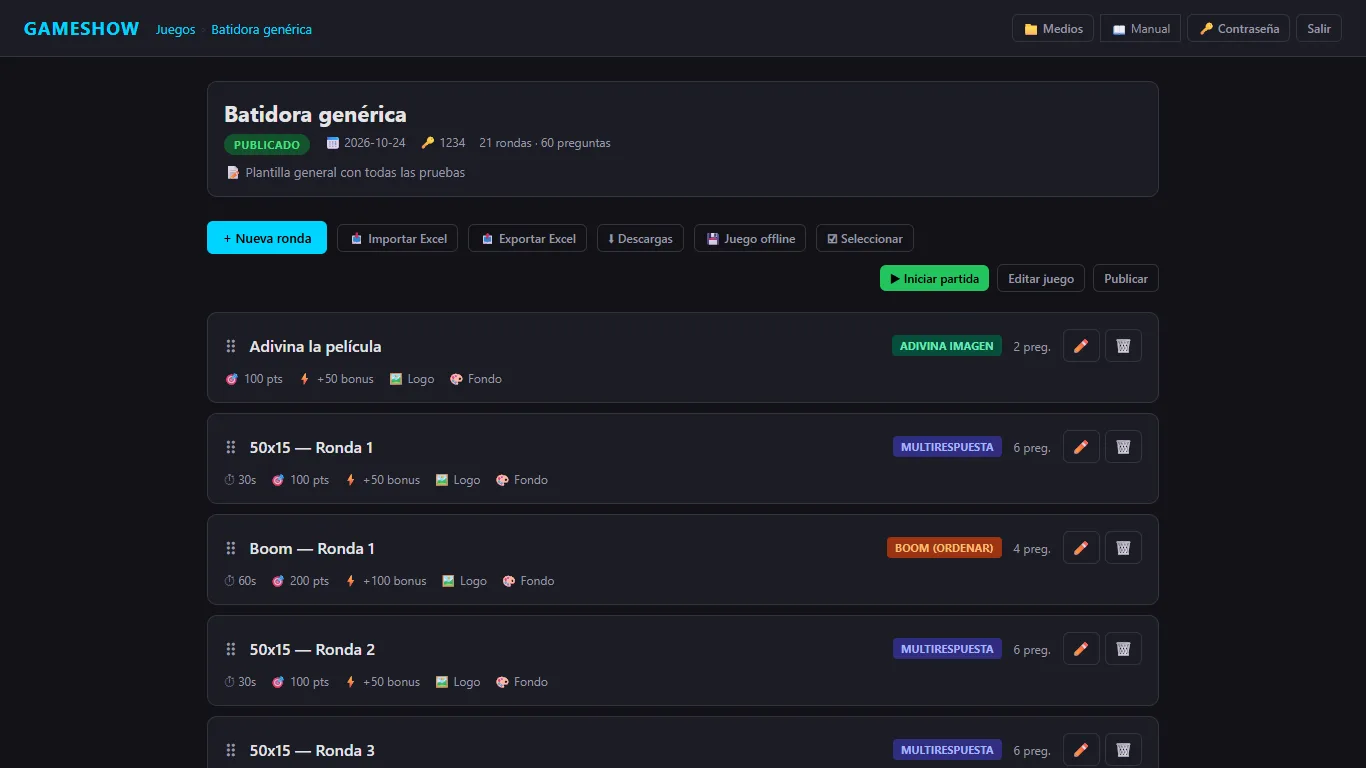
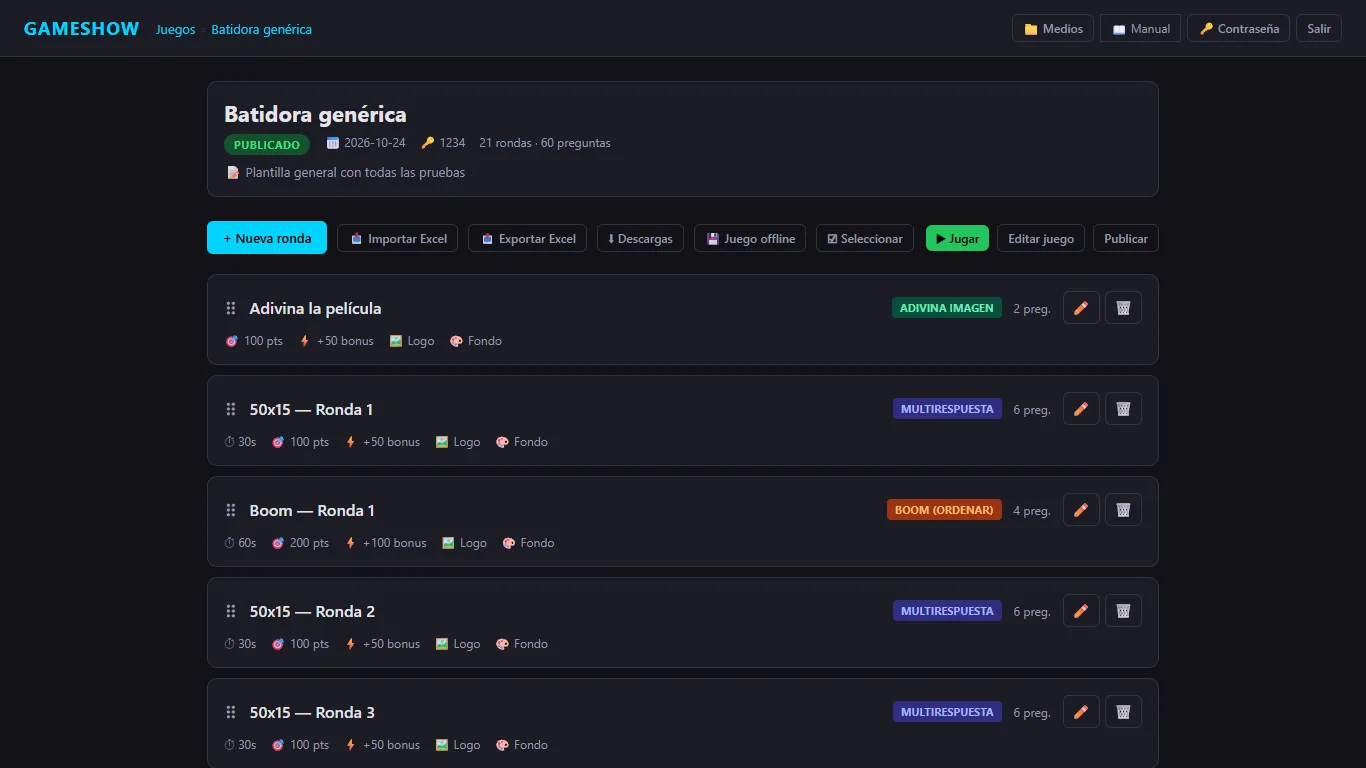
Botón Jugar: sin preguntas y único acceso al coordinador desde la lista
Con la pestaña nueva ya delante, el navegador anulaba los confirm() del
backoffice y la pestaña se cerraba sola: con partida en marcha el botón no
hacía nada. Ahora crea la partida o continúa la que hay y abre el
coordinador; la partida nueva se hace con «Borrar todo» del coordinador.
Se quita «Director» de la lista y «Iniciar partida» pasa a llamarse «Jugar».
Manual y capturas al día.

diff --git a/public/admin/index.html b/public/admin/index.html
@@ -236,7 +236,7 @@ label { font-size: 12px; font-weight: 600; color: var(--text2); text-transform: 
             <button class="btn-ghost btn-sm" id="btnToggleSelectRounds" onclick="toggleRoundSelectMode()" style="display:none">☑ Seleccionar</button>
             <button class="btn-ghost btn-sm" id="btnDeleteSelectedRounds" onclick="deleteSelectedRounds()" style="display:none; color:var(--danger, #e53935)">🗑 Eliminar seleccionadas</button>
             <div class="toolbar-right">
-                <button class="btn-success btn-sm" id="btnStartSession" onclick="startSession(currentGame.id)" style="display:none">▶ Iniciar partida</button>
+                <button class="btn-success btn-sm" id="btnStartSession" onclick="startSession(currentGame.id)" style="display:none" title="Abrir el coordinador (crea la partida o continúa la que está en marcha)">▶ Jugar</button>
                 <button class="btn-ghost btn-sm" onclick="openGameModal(currentGame)">Editar juego</button>
                 <button class="btn-ghost btn-sm" onclick="publishGame()">Publicar</button>
             </div>
@@ -848,7 +848,7 @@ function renderGames() {
                 <span class="card-title" onclick="loadGame('${g.id}')">${esc(g.name)}</span>
                 ${statusBadge(g.status)}
                 <div class="card-actions">
-                    ${g.status === 'published' ? `<button class="btn-success btn-sm" onclick="startSession('${g.id}')" title="Iniciar sesión y abrir director">▶ Jugar</button><a class="btn-ghost btn-sm" href="/director/${g.id}" target="_blank" style="text-decoration:none;display:inline-flex;align-items:center;gap:4px;" title="Ir al director">🎬 Director</a>` : ''}
+                    ${g.status === 'published' ? `<button class="btn-success btn-sm" onclick="startSession('${g.id}')" title="Abrir el coordinador (crea la partida o continúa la que está en marcha)">▶ Jugar</button>` : ''}
                     <button class="btn-icon" onclick="openGameModal(${JSON.stringify(g).replace(/"/g,'&quot;')})" title="Editar">✏</button>
                     <button class="btn-icon" onclick="duplicateGame('${g.id}')" title="Duplicar">📋</button>
                     <button class="btn-icon" onclick="exportGameZip('${g.id}')" title="Exportar juego completo (.zip con imágenes, vídeos y audio)">📦</button>
@@ -2274,22 +2274,12 @@ function populateThemeForm(form, theme) {
 // ─── Session management ───
 async function startSession(gameId) {
     // Abrir la pestaña ya (los navegadores bloquean window.open tras esperas)
+    // Sin preguntas: con la pestaña nueva delante, el navegador anula los confirm() de esta
+    // y la partida nunca llegaba a abrirse. Si hay partida en marcha se continúa; para
+    // empezar de cero está «🗑 Borrar todo» en el coordinador.
     const win = window.open('about:blank', '_blank');
     try {
-        let nueva = false;
-        let active = null;
-        try { active = await api(`/games/${gameId}/session`); } catch (e) { /* 404: no hay partida */ }
-        if (active) {
-            const n = (active.teams || []).length;
-            if (!confirm(`Este juego ya tiene una partida en marcha (${n} equipo${n === 1 ? '' : 's'}).\n\nAceptar: CONTINUAR esa partida.\nCancelar: ver otras opciones.`)) {
-                if (!confirm('¿Empezar una partida NUEVA?\n\nSe borrarán los equipos y los puntos de la partida actual y los iPads volverán a la pantalla de inicio.')) {
-                    if (win) win.close();
-                    return;
-                }
-                nueva = true;
-            }
-        }
-        const r = await api(`/games/${gameId}/session`, { method: 'POST', body: { nueva } });
+        const r = await api(`/games/${gameId}/session`, { method: 'POST', body: {} });
         toast(r.resumed ? 'Continuando la partida en marcha' : 'Partida nueva iniciada');
         if (win) win.location = '/director/' + gameId; else window.open('/director/' + gameId, '_blank');
     } catch (e) {

diff --git a/public/manual/index.html b/public/manual/index.html
@@ -422,7 +422,7 @@
       <figure class="shot"><a href="img/09-puntuacion-bonus.webp" target="_blank" rel="noopener"><img src="img/09-puntuacion-bonus.webp" alt="Puntos y bono de una pregunta" loading="lazy"></a><figcaption>Abajo del formulario: tiempo, puntos base, bonus y el bono especial.</figcaption></figure>
 
       <h3>Publicar</h3>
-      <p>Cuando el juego esté completo y revisado, se publica con el botón <strong>«Publicar»</strong> del juego (o cambiando su estado en «Editar juego»). En la lista aparece la etiqueta <strong>PUBLICADO</strong> y los botones <strong>«▶ Jugar»</strong> y <strong>«🎬 Director»</strong>. A partir de ahí los iPads pueden verlo y entrar con el código de acceso. Si quedan incompletas, la app no te deja publicar hasta resolverlas.</p>
+      <p>Cuando el juego esté completo y revisado, se publica con el botón <strong>«Publicar»</strong> del juego (o cambiando su estado en «Editar juego»). En la lista aparece la etiqueta <strong>PUBLICADO</strong> y el botón <strong>«▶ Jugar»</strong>. A partir de ahí los iPads pueden verlo y entrar con el código de acceso. Si quedan incompletas, la app no te deja publicar hasta resolverlas.</p>
 
       
       <div id="s2-zip"></div>
@@ -441,7 +441,7 @@
     <section id="s3">
       <div class="sec-head"><span class="sec-num">03</span><h2>Dirigir el juego en directo</h2></div>
       <p>Con el juego publicado y la sala montada, el coordinador toma el control desde su iPad, tablet u ordenador en <code>/director</code>. El botón <strong>«📺 Pantalla»</strong> de la cabecera abre la pantalla de sala del juego. El panel está pensado para que, en un portátil normal sin pantalla completa, los botones de cada prueba se vean siempre sin tener que bajar.</p>
-      <p>La partida se inicia con <strong>«▶ Jugar»</strong> en el backoffice. Si ese juego <strong>ya tiene una partida en marcha</strong> (por ejemplo, cerraste el coordinador sin querer), te pregunta: <strong>continuar</strong> la partida (lo normal: equipos y puntos siguen igual) o empezar una <strong>nueva</strong> (borra equipos y puntos y devuelve los iPads al inicio).</p>
+      <p>La partida se inicia con <strong>«▶ Jugar»</strong> en el backoffice, que abre el coordinador. Si ese juego <strong>ya tiene una partida en marcha</strong> (por ejemplo, cerraste el coordinador sin querer), la <strong>continúa</strong> tal cual: equipos y puntos siguen igual. Para empezar de cero, usa <strong>«🗑 Borrar todo»</strong> en la cabecera del coordinador (borra equipos y puntos; los iPads vuelven al inicio).</p>
       <div class="note"><span class="tag">Tranquilidad</span>El marcador, los bonos y las congelaciones se guardan solos cada pocos segundos. Si el servidor se reinicia a mitad de evento, al volver todo sigue donde estaba y los iPads recuperan su equipo solos.</div>
 
       <figure class="shot"><a href="img/10-director-panel.webp" target="_blank" rel="noopener"><img src="img/10-director-panel.webp" alt="Panel del coordinador" loading="lazy"></a><figcaption>El panel del coordinador: rondas a la izquierda, cabecera de botones y equipos con sus puntos abajo.</figcaption></figure>

diff --git a/CLAUDE.md b/CLAUDE.md
@@ -37,7 +37,7 @@ El usuario no programa: Claude programa, prueba y **pregunta siempre antes de su
 - Boom e Identidad: los puntos esperan en `ds.pendingScores` y se suman al revelar la última posición/pareja (`applyPendingScores`); si el coordinador sale de la pregunta antes, se suman al salir. Multirespuesta y Precio puntúan al cerrar.
 - Respuesta abierta (tipo `abierta`): `content = { statement?, subs: [{ text, answer, alts? }], time? }` (`alts` = texto con «/»; `time` vacío = sin cuenta atrás). Pasos en `ds.abierta.step`: intro → shown → open → correcting → revealed (`director:abierta_show|open|close|reveal|mark`). Borrador en servidor (`player:abierta_draft`, no se difunde) y envío (`player:abierta_submit`); al cerrar, lo escrito sin enviar cuenta con la hora del cierre. Corrección automática con `QuestionValidation.matchesSub` (sin mayúsculas, tildes, signos). Puntos = base × aciertos ÷ subpreguntas (redondeado) + `bonusMax` al que más acierta (empate: el que envió antes), en `pendingScores` hasta revelar la última. Rectificar ya revelada (`rectifyAbierta`) recalcula y suma solo la diferencia. A medio corregir se guarda en `ds.abiertaWip` (persistido).
 - Volver a una pregunta ya puntuada la muestra revelada (`ds.questionResults`, `restoreQuestionResult`) y no se vuelve a puntuar.
-- "▶ Jugar" con partida en marcha la continúa; partida nueva solo explícita (`resetGameForNewSession` reinicia el estado **en su sitio**: los sockets guardan referencia al objeto).
+- "▶ Jugar" (único botón de la lista para abrir el coordinador) crea la partida o continúa la que está en marcha, **sin preguntar**: los `confirm()` tras abrir la pestaña nueva los anula el navegador. Partida nueva = «🗑 Borrar todo» del coordinador; la API mantiene `{ nueva: true }` (`resetGameForNewSession` reinicia el estado **en su sitio**: los sockets guardan referencia al objeto).
 
 ## Robustez que ya existe
 
